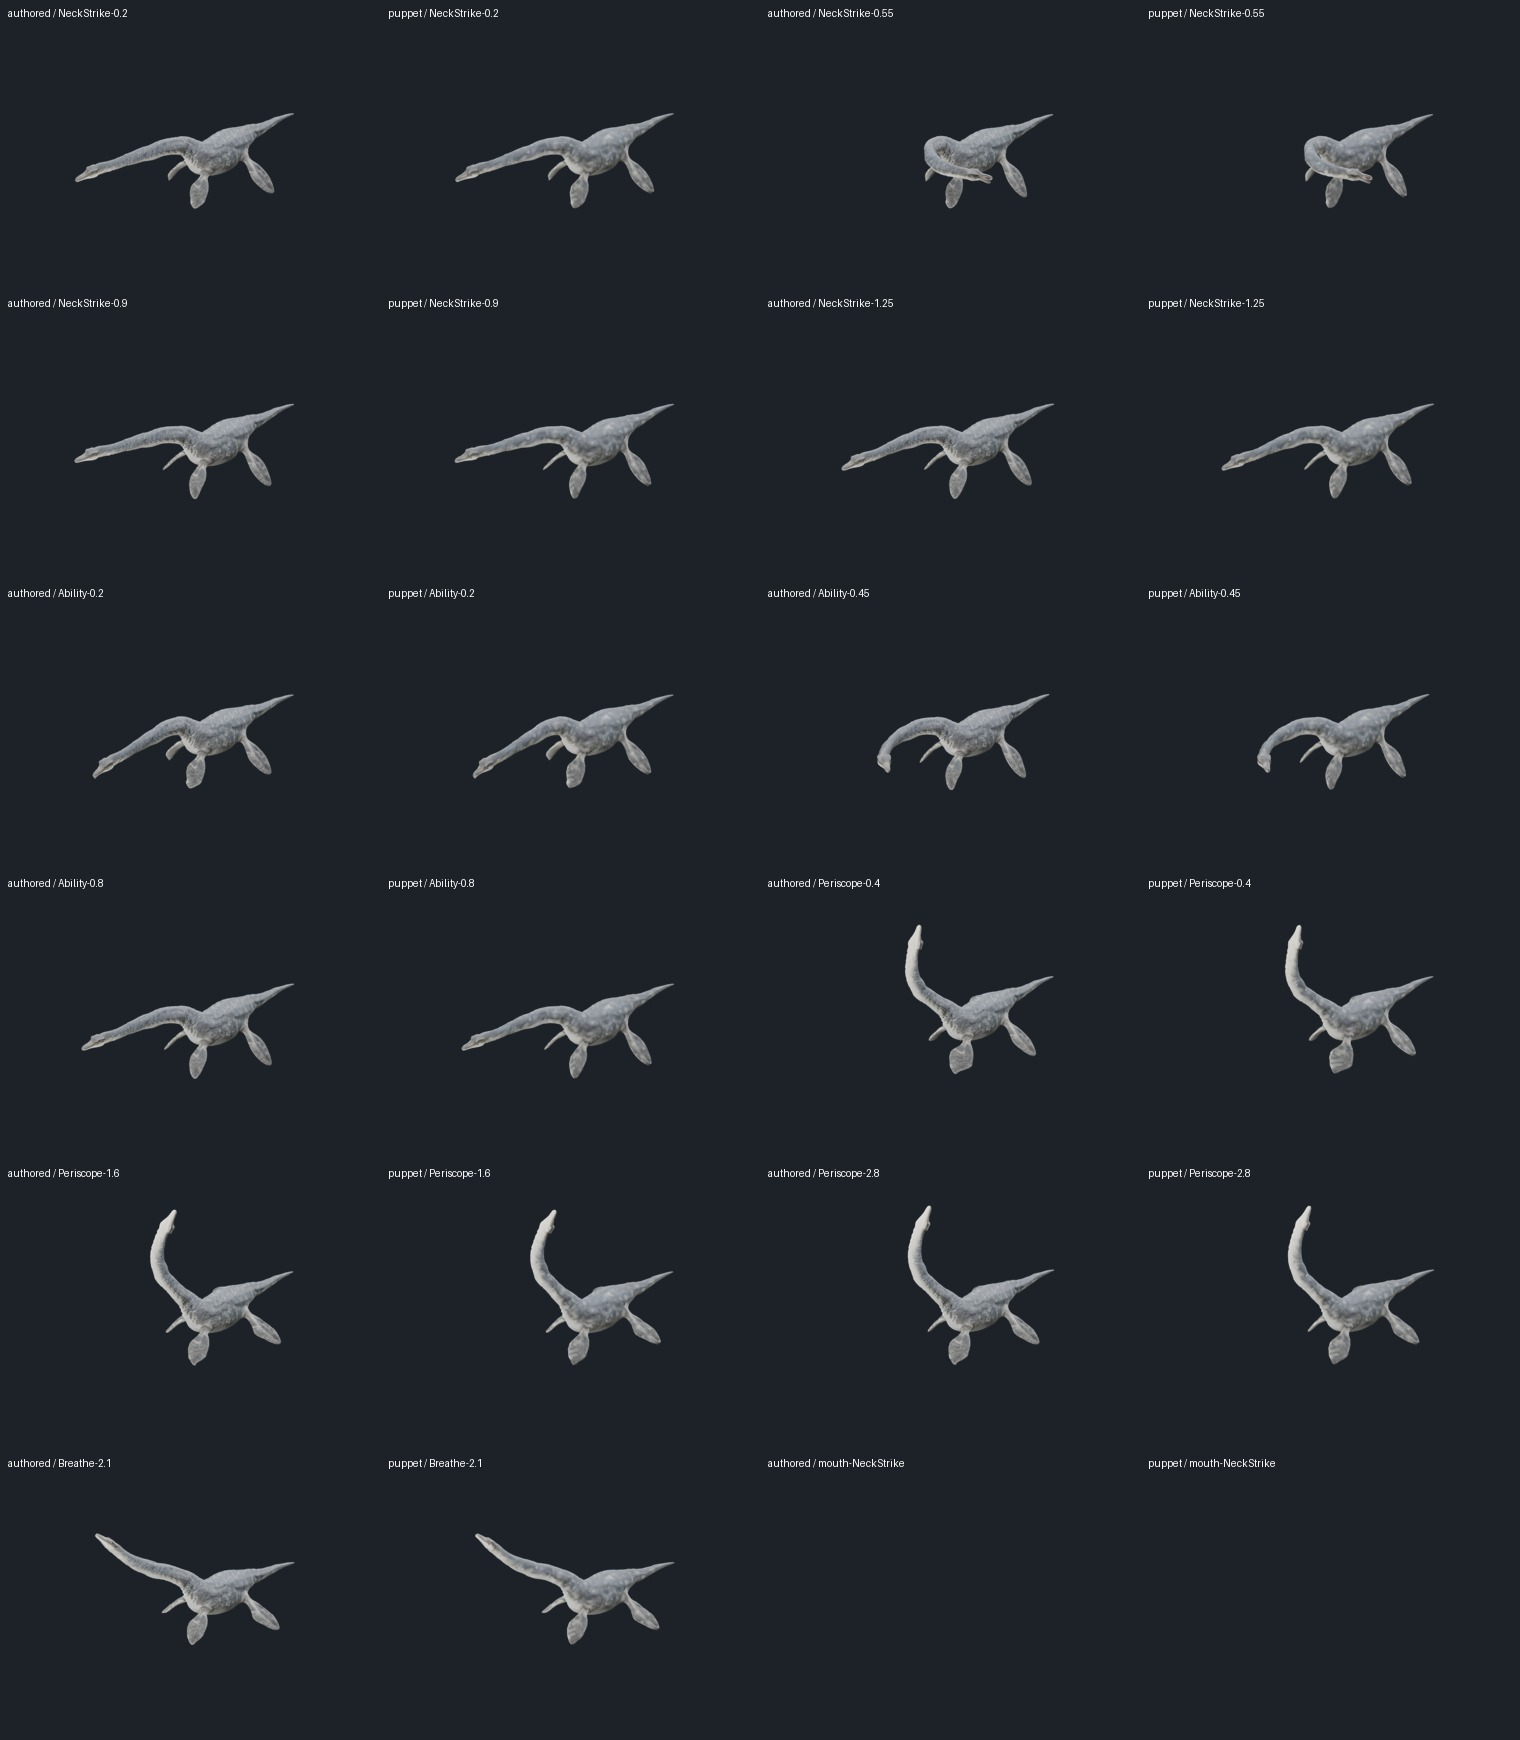
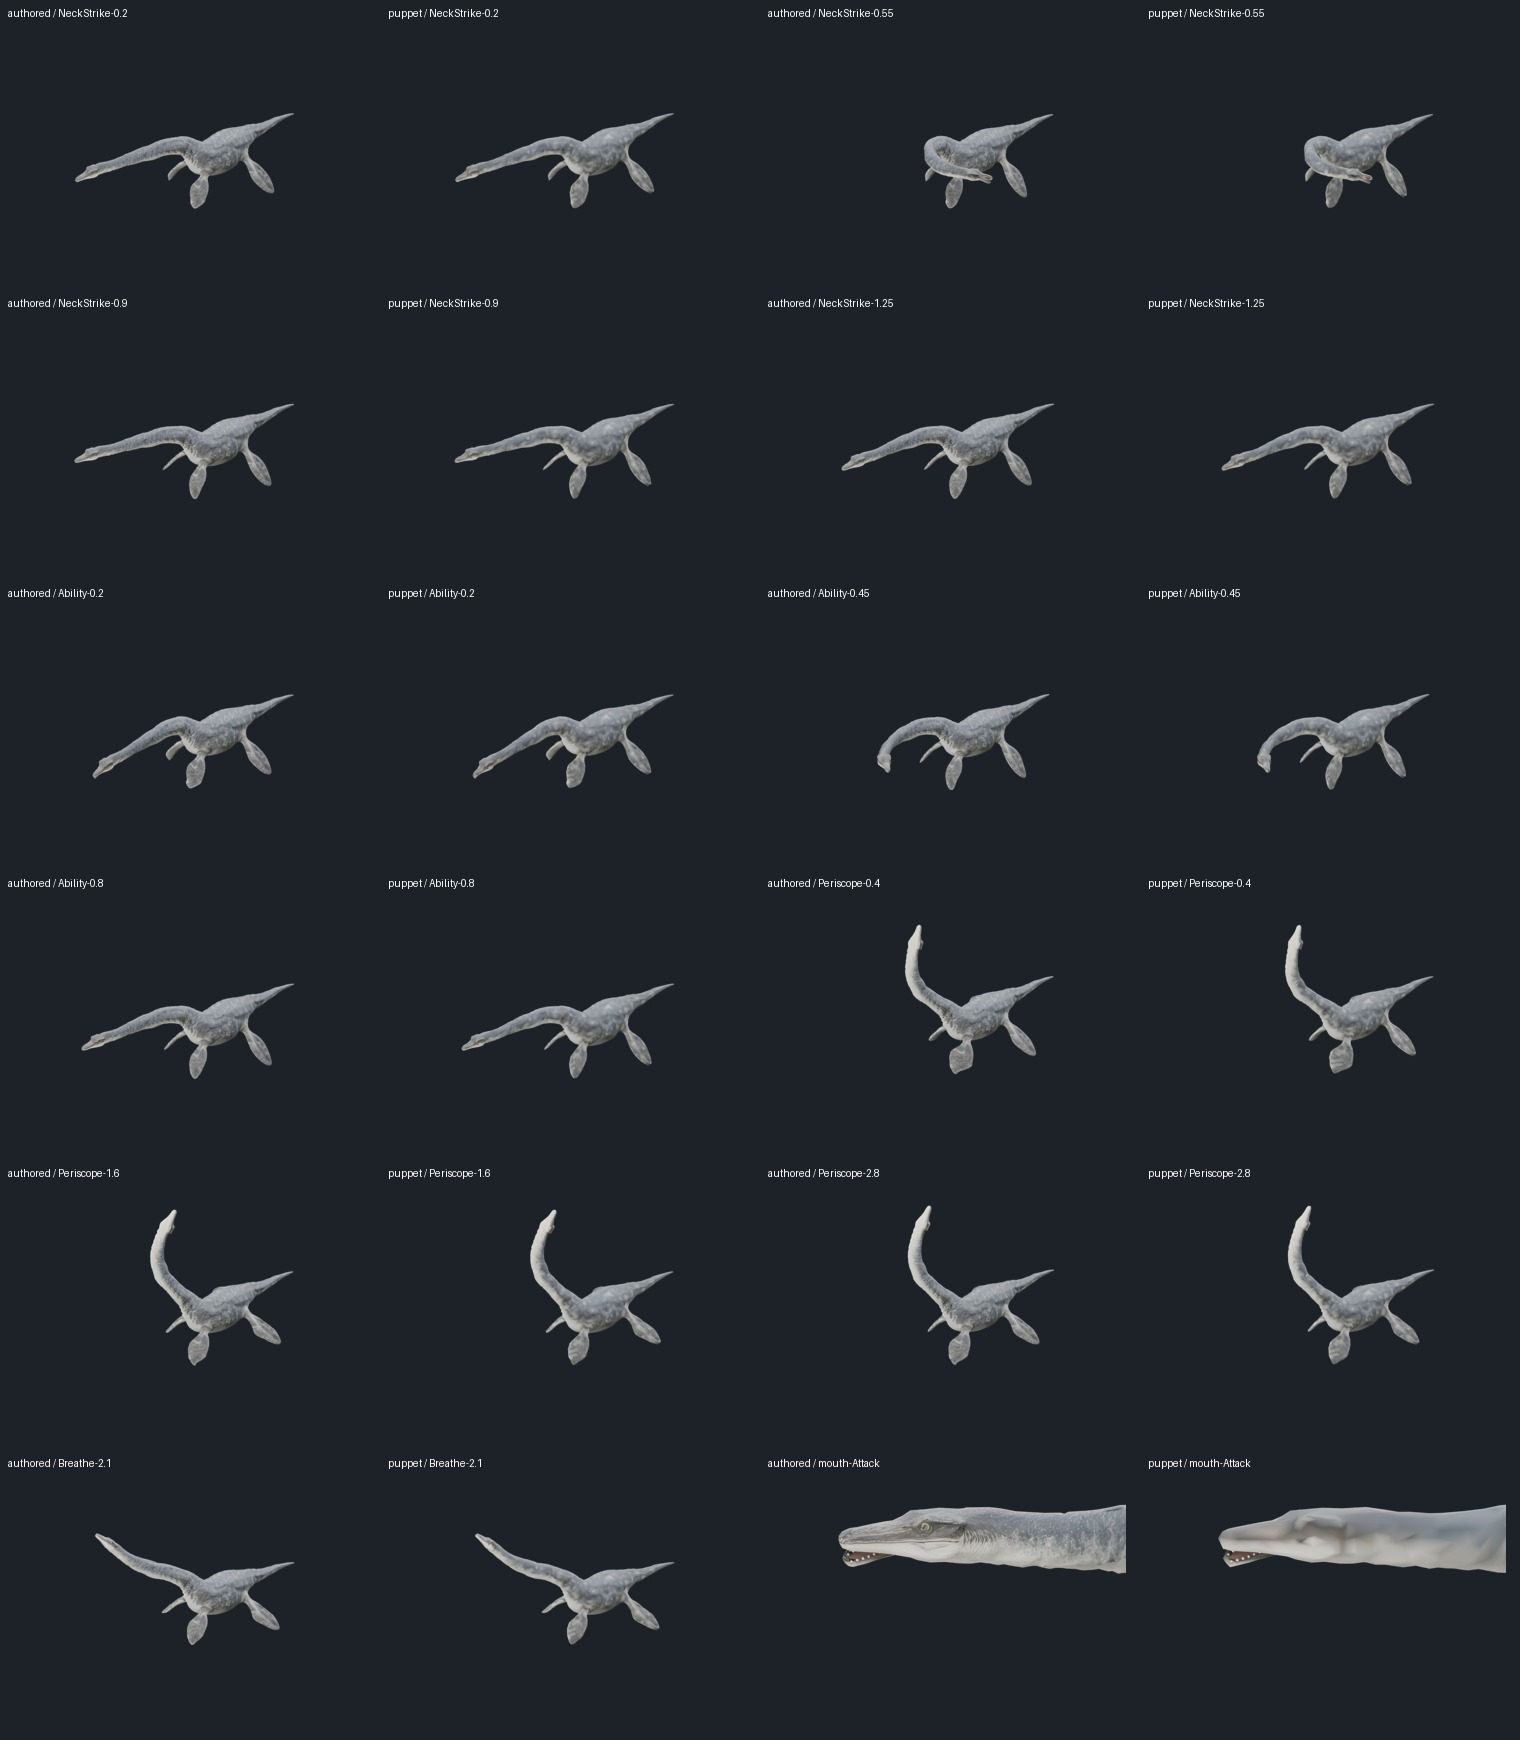
Dinocephalosaurus: a mouth close-up the strike does not leave
The fixed mouth camera was pointed at NeckStrike's apex, which is the one frame
that throws the head clean out of the close-up: the sheet showed two blank
cells. Use Attack's windup instead, which opens the jaws with the head still
near rest, and add --mouth-only so those three frames can be re-rendered without
a full pass.

Claude-Session: https://claude.ai/code/session_01FLc4qT537AmBgjJqMfpt8y

Changed region(s): [[0.8039, 0.869, 1.0, 0.9], [0.5566, 0.869, 0.7421, 0.9]]

diff --git a/tools/triassic/creatures/dinocephalosaurus/render.py b/tools/triassic/creatures/dinocephalosaurus/render.py
@@ -38,6 +38,10 @@ def render(file, w=800, h=600, loc=(7.5, -5.5, 4.4), target=MID, scale=7.6):
 
 NECK = ([('NeckStrike', t) for t in [0., .2, .4, .55, .7, .9, 1.2]]
         + [('Periscope', t) for t in [.4, 1.6, 2.8]] + [('TurnLeft', .85), ('Guard', .6)])
+if '--mouth-only' in sys.argv:
+    for name, clip, t in [('mouth-closed', 'Idle', 0), ('mouth-Bite', 'Bite', .25), ('mouth-Attack', 'Attack', .14)]:
+        pose(clip, t); render(REVIEW / (name + '.png'), 1000, 750, (3.2, -5.6, .9), (0, -3.35, -.05), 1.5)
+    sys.exit(0)
 if '--neck-only' in sys.argv:
     for clip, t in NECK:
         pose(clip, t); render(REVIEW / ('%s-%s-nside.png' % (clip, t)), 900, 620, (8, -.85, .2), (0, -.85, .1), 7.8)
@@ -64,7 +68,8 @@ for name, loc, tgt, scale, w, h in [('side', (8, -.85, .1), (0, -.85, -.35), 7.6
                                     ('front', (0, -9.5, -.35), (0, -.85, -.35), 2.8, 1000, 750),
                                     ('belly', (0, -.85, -9), (0, -.85, 0), 8.0, 640, 900)]:
     pose('Idle', 0); render(REVIEW / (name + '.png'), w, h, loc, tgt, scale)
-for name, clip, t in [('mouth-closed', 'Idle', 0), ('mouth-Bite', 'Bite', .25), ('mouth-NeckStrike', 'NeckStrike', .55)]:
+MOUTH = [('mouth-closed', 'Idle', 0), ('mouth-Bite', 'Bite', .25), ('mouth-Attack', 'Attack', .14)]
+for name, clip, t in MOUTH:
     pose(clip, t); render(REVIEW / (name + '.png'), 1000, 750, (3.2, -5.6, .9), (0, -3.35, -.05), 1.5)
 for clip, t in NECK:
     pose(clip, t); render(REVIEW / ('%s-%s-nside.png' % (clip, t)), 900, 620, (8, -.85, .2), (0, -.85, .1), 7.8)

diff --git a/tools/triassic/creatures/dinocephalosaurus/contact-sheets.py b/tools/triassic/creatures/dinocephalosaurus/contact-sheets.py
@@ -12,7 +12,7 @@ sets = {
                              'Growth-0.75', 'Breathe-0.9'],
     'paired-era-clips-sheet': ['NeckStrike-0.2', 'NeckStrike-0.55', 'NeckStrike-0.9', 'NeckStrike-1.25',
                                'Ability-0.2', 'Ability-0.45', 'Ability-0.8',
-                               'Periscope-0.4', 'Periscope-1.6', 'Periscope-2.8', 'Breathe-2.1', 'mouth-NeckStrike'],
+                               'Periscope-0.4', 'Periscope-1.6', 'Periscope-2.8', 'Breathe-2.1', 'mouth-Attack'],
     # The one sheet this animal is judged on: the neck bending along its length, not at its base.
     'paired-neck-sheet': ['NeckStrike-0.0-nside', 'NeckStrike-0.2-nside', 'NeckStrike-0.4-nside', 'NeckStrike-0.55-nside',
                           'NeckStrike-0.7-nside', 'NeckStrike-0.9-nside', 'NeckStrike-1.2-nside',
